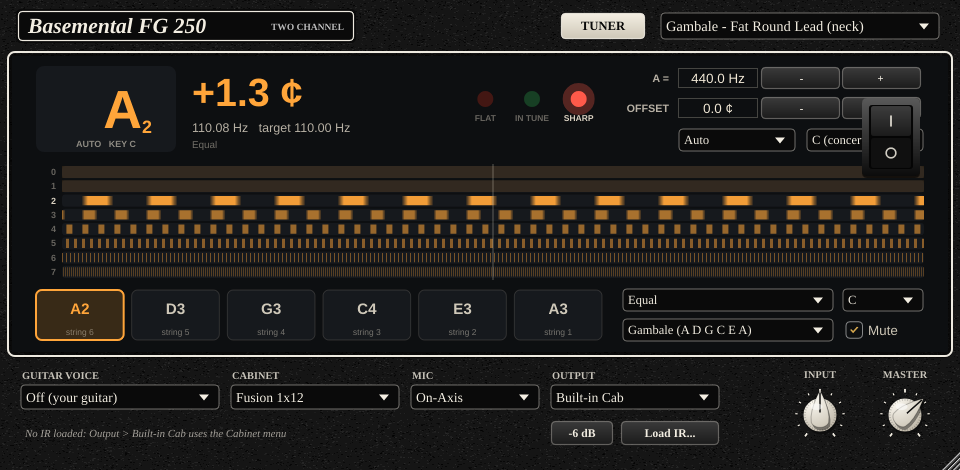
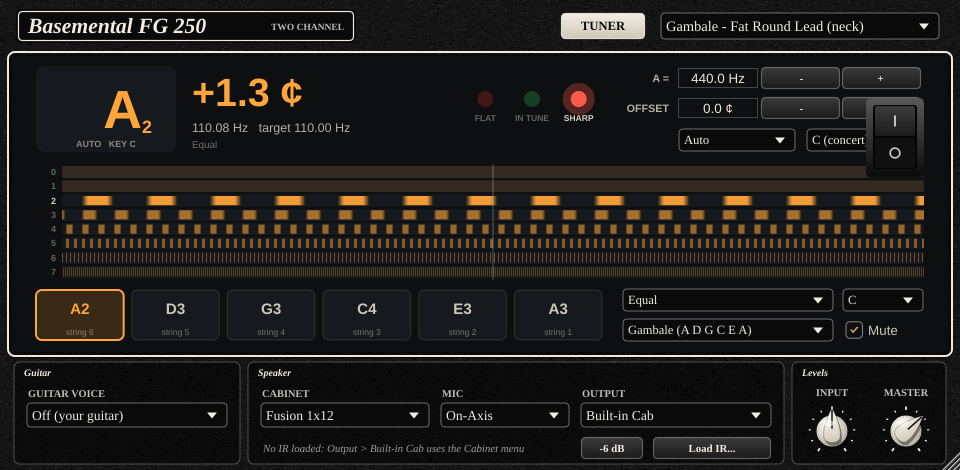
Larger knobs, black crinkle finish, reverb stomp footswitch, grouped footer panels
Claude-Session: https://claude.ai/code/session_01SErY97rsBrNjufxFoFZJH3

diff --git a/Source/PluginEditor.cpp b/Source/PluginEditor.cpp
@@ -203,7 +203,6 @@ Fusion250Editor::Fusion250Editor (Fusion250Processor& p) : AudioProcessorEditor 
     };
     addAndMakeVisible (channelBtn);
 
-    reverbBtn.setClickingTogglesState (true);
     reverbBtn.setTooltip ("Reverb on/off (footswitch)");
     addAndMakeVisible (reverbBtn);
     revAtt = std::make_unique<juce::AudioProcessorValueTreeState::ButtonAttachment> (proc.apvts, "reverb_on", reverbBtn);
@@ -285,7 +284,7 @@ void Fusion250Editor::timerCallback()
 void Fusion250Editor::rebuildTextures()
 {
     juce::Random rng (250);
-    // black brushed faceplate
+    // black crinkle faceplate
     brushed = juce::Image (juce::Image::RGB, juce::jmax (1, plate.getWidth()), juce::jmax (1, plate.getHeight()), true);
     {
         juce::Graphics g (brushed);
@@ -293,12 +292,16 @@ void Fusion250Editor::rebuildTextures()
         grad.addColour (0.45, plateHi.interpolatedWith (plateLo, 0.35f));
         g.setGradientFill (grad);
         g.fillAll();
-        for (int y = 0; y < plate.getHeight(); ++y)
+        // black crinkle (wrinkle) finish: dense tiny highlights and shadows
+        const int W = plate.getWidth(), H = plate.getHeight();
+        for (int i = 0; i < W * H / 3; ++i)
         {
-            const float a = rng.nextFloat() * 0.05f;
-            g.setColour ((rng.nextBool() ? juce::Colours::white : juce::Colours::black).withAlpha (a));
-            const float x0 = rng.nextFloat() * plate.getWidth() * 0.3f;
-            g.drawHorizontalLine (y, x0, x0 + plate.getWidth() * (0.5f + rng.nextFloat() * 0.6f));
+            const float x = rng.nextFloat() * W, y = rng.nextFloat() * H;
+            const float d = 1.0f + rng.nextFloat() * 2.2f;
+            g.setColour (juce::Colours::white.withAlpha (0.025f + rng.nextFloat() * 0.03f));
+            g.fillEllipse (x, y, d, d * 0.8f);
+            g.setColour (juce::Colours::black.withAlpha (0.10f + rng.nextFloat() * 0.10f));
+            g.fillEllipse (x + 0.8f, y + 0.9f, d, d * 0.8f);
         }
     }
     // tolex grain
@@ -359,12 +362,12 @@ void Fusion250Editor::paint (juce::Graphics& g)
     // engraved row divider
     const float divY = (float) cleanBand.getY();
     g.setColour (juce::Colours::black.withAlpha (0.8f));
-    g.drawHorizontalLine ((int) divY + 1, pf.getX() + 130 * s, pf.getX() + 818 * s);
+    g.drawHorizontalLine ((int) divY + 1, pf.getX() + 130 * s, pf.getX() + 826 * s);
     g.setColour (ink.withAlpha (0.55f));
-    g.drawHorizontalLine ((int) divY, pf.getX() + 130 * s, pf.getX() + 818 * s);
+    g.drawHorizontalLine ((int) divY, pf.getX() + 130 * s, pf.getX() + 826 * s);
     // power section: vertical divider, captions, blue ON lamp
     g.setColour (ink.withAlpha (0.55f));
-    g.drawVerticalLine ((int) (pf.getX() + 830 * s), pf.getY() + 16 * s, pf.getBottom() - 16 * s);
+    g.drawVerticalLine ((int) (pf.getX() + 836 * s), pf.getY() + 16 * s, pf.getBottom() - 16 * s);
     const auto pb = powerBtn.getBounds().toFloat();
     engrave (g, "POWER", { pb.getX() - 20 * s, pb.getY() - 22 * s, pb.getWidth() + 40 * s, 18 * s }, 14.5f * s);
     const juce::Point<float> lamp (pb.getCentreX(), (float) cleanBand.getCentreY() + 8 * s);
@@ -387,6 +390,27 @@ void Fusion250Editor::paint (juce::Graphics& g)
         if (k.small) continue;
         const auto b = k.slider->getBounds().toFloat();
         engrave (g, k.label.toUpperCase(), { b.getX() - 20 * s, b.getY() - 22 * s, b.getWidth() + 40 * s, 18 * s }, 14.5f * s);
+    }
+
+    // footer groups
+    auto group = [&] (juce::Rectangle<int> r, const char* title)
+    {
+        const auto rf = r.toFloat();
+        g.setColour (juce::Colours::black.withAlpha (0.45f));
+        g.fillRoundedRectangle (rf, 6 * s);
+        g.setColour (piping.withAlpha (0.3f));
+        g.drawRoundedRectangle (rf, 6 * s, 1.0f);
+        g.setColour (cream);
+        g.setFont (engraveFont (11 * s, true));
+        g.drawText (title, rf.withHeight (16 * s).translated (10 * s, 3 * s), juce::Justification::centredLeft);
+    };
+    group (guitarGroup, "Guitar");
+    group (speakerGroup, "Speaker");
+    group (levelGroup, "Levels");
+    // reverb footswitch caption
+    {
+        const auto rb = reverbBtn.getBounds().toFloat();
+        engrave (g, "REVERB", { rb.getX() - 20 * s, rb.getY() - 22 * s, rb.getWidth() + 40 * s, 18 * s }, 14.5f * s);
     }
 
     // footer captions (on tolex, so cream)
@@ -420,35 +444,40 @@ void Fusion250Editor::resized()
     tuner.setBounds (plate);
     channelBtn.setBounds (S (30), cleanBand.getY() - S (17), S (90), S (34));
 
-    const int x0 = S (140), colW = S (114), knobSize = S (100);
-    powerBtn.setBounds (plate.getX() + S (848), leadBand.getY() + S (40), S (62), S (82));
+    const int x0 = S (136), colW = S (115), knobSize = S (114);
+    powerBtn.setBounds (plate.getX() + S (852), leadBand.getY() + S (40), S (62), S (82));
     auto placeKnob = [&] (Knob& k, juce::Rectangle<int> band, int col)
     {
         const int cx = x0 + col * colW + colW / 2;
-        k.slider->setBounds (cx - knobSize / 2, band.getY() + S (34), knobSize, knobSize);
+        k.slider->setBounds (cx - knobSize / 2, band.getY() + S (30), knobSize, knobSize);
     };
     for (int i = 0; i < 6; ++i) placeKnob (knobs[(size_t) i], leadBand, i);
     for (int i = 0; i < 5; ++i) placeKnob (knobs[(size_t) (6 + i)], cleanBand, i);
 
     const int revCx = x0 + 5 * colW + colW / 2;
-    reverbBtn.setBounds (revCx - S (46), cleanBand.getCentreY() - S (16), S (92), S (32));
+    reverbBtn.setBounds (revCx - S (34), cleanBand.getY() + S (30), S (68), S (100));
 
-    const int fy = footer.getY() + S (26), fy2 = footer.getY() + S (62);
-    guitarBox.setBounds (S (20), fy, S (200), S (26));
-    cabBox.setBounds (S (230), fy, S (170), S (26));
-    micBox.setBounds (S (410), fy, S (130), S (26));
-    outputBox.setBounds (S (550), fy, S (170), S (26));
-    irLabel.setBounds (S (20), fy2, S (520), S (26));
-    padBtn.setBounds (S (550), fy2, S (64), S (26));
-    irBtn.setBounds (S (620), fy2, S (100), S (26));
+    // footer: three grouped panels
+    const int gy = footer.getY() + S (4), gh = footer.getHeight() - S (10);
+    guitarGroup  = { S (14), gy, S (226), gh };
+    speakerGroup = { S (248), gy, S (536), gh };
+    levelGroup   = { S (792), gy, S (154), gh };
+    const int fy = gy + S (40), fy2 = gy + S (74);
+    guitarBox.setBounds (guitarGroup.getX() + S (12), fy, S (202), S (26));
+    cabBox.setBounds (speakerGroup.getX() + S (12), fy, S (170), S (26));
+    micBox.setBounds (speakerGroup.getX() + S (192), fy, S (130), S (26));
+    outputBox.setBounds (speakerGroup.getX() + S (332), fy, S (192), S (26));
+    padBtn.setBounds (speakerGroup.getX() + S (332), fy2, S (64), S (24));
+    irBtn.setBounds (speakerGroup.getX() + S (404), fy2, S (120), S (24));
+    irLabel.setBounds (speakerGroup.getX() + S (10), fy2, S (316), S (24));
 
     auto smallKnob = [&] (Knob& k, int cx)
     {
-        const int sz = S (66);
-        k.slider->setBounds (cx - sz / 2, footer.getY() + S (24), sz, sz);
+        const int sz = S (62);
+        k.slider->setBounds (cx - sz / 2, gy + S (38), sz, sz);
     };
-    smallKnob (knobs[11], S (820));
-    smallKnob (knobs[12], S (905));
+    smallKnob (knobs[11], levelGroup.getX() + S (40));
+    smallKnob (knobs[12], levelGroup.getX() + S (114));
 }
 
 // =================================================================== rocker
@@ -480,4 +509,45 @@ void RockerSwitch::paintButton (juce::Graphics& g, bool over, bool)
     const float m = face.getWidth() * 0.12f;
     g.fillRoundedRectangle (juce::Rectangle<float> (m * 0.35f, face.getHeight() * 0.18f).withCentre (top.getCentre()), 1.0f);
     g.drawEllipse (juce::Rectangle<float> (face.getWidth() * 0.22f, face.getWidth() * 0.22f).withCentre (bottom.getCentre()), 1.6f);
+}
+
+// =============================================================== footswitch
+void FootswitchButton::paintButton (juce::Graphics& g, bool over, bool down)
+{
+    const auto b = getLocalBounds().toFloat();
+    const bool on = getToggleState();
+    // status LED above the switch
+    const juce::Point<float> led (b.getCentreX(), b.getY() + b.getHeight() * 0.12f);
+    const float lr = b.getWidth() * 0.09f;
+    if (on) { g.setColour (juce::Colour (0xffff3a2a).withAlpha (0.35f)); g.fillEllipse (led.x - lr * 2.4f, led.y - lr * 2.4f, lr * 4.8f, lr * 4.8f); }
+    g.setColour (on ? juce::Colour (0xffff4a3a) : juce::Colour (0xff3a1210));
+    g.fillEllipse (led.x - lr, led.y - lr, lr * 2, lr * 2);
+    g.setColour (juce::Colours::white.withAlpha (on ? 0.6f : 0.2f));
+    g.fillEllipse (led.x - lr * 0.5f, led.y - lr * 0.6f, lr * 0.6f, lr * 0.45f);
+
+    // hex nut + chrome stomp cap
+    const juce::Point<float> c (b.getCentreX(), b.getY() + b.getHeight() * 0.62f);
+    const float R = juce::jmin (b.getWidth(), b.getHeight()) * 0.42f;
+    juce::Path hex;
+    for (int i = 0; i < 6; ++i)
+    {
+        const float a = juce::MathConstants<float>::pi / 3.0f * (float) i;
+        const auto p = c + juce::Point<float> (R * std::cos (a), R * std::sin (a));
+        if (i == 0) hex.startNewSubPath (p); else hex.lineTo (p);
+    }
+    hex.closeSubPath();
+    g.setColour (juce::Colours::black.withAlpha (0.5f));
+    g.fillPath (hex, juce::AffineTransform::translation (0, 3.0f));
+    juce::ColourGradient nut (juce::Colour (0xffdedede), c.x - R, c.y - R, juce::Colour (0xff4a4a4a), c.x + R, c.y + R, false);
+    g.setGradientFill (nut);
+    g.fillPath (hex);
+    const float cr = R * (down ? 0.60f : 0.64f);
+    juce::ColourGradient cap (juce::Colour (0xffffffff), c.x - cr * 0.5f, c.y - cr * 0.7f, juce::Colour (0xff6a6a6a), c.x + cr * 0.6f, c.y + cr, true);
+    g.setGradientFill (cap);
+    g.fillEllipse (c.x - cr, c.y - cr, cr * 2, cr * 2);
+    g.setColour (juce::Colours::black.withAlpha (0.45f));
+    g.drawEllipse (c.x - cr, c.y - cr, cr * 2, cr * 2, 1.0f);
+    g.setColour (juce::Colours::black.withAlpha (0.18f));
+    g.drawEllipse (c.x - cr * 0.62f, c.y - cr * 0.62f, cr * 1.24f, cr * 1.24f, 1.2f);
+    if (over) { g.setColour (juce::Colours::white.withAlpha (0.08f)); g.fillEllipse (c.x - cr, c.y - cr, cr * 2, cr * 2); }
 }

diff --git a/Source/PluginEditor.h b/Source/PluginEditor.h
@@ -25,6 +25,14 @@ public:
     void paintButton (juce::Graphics&, bool over, bool down) override;
 };
 
+// Chrome stomp footswitch with a status LED (click to toggle)
+class FootswitchButton : public juce::Button
+{
+public:
+    FootswitchButton() : juce::Button ("Reverb") { setClickingTogglesState (true); }
+    void paintButton (juce::Graphics&, bool over, bool down) override;
+};
+
 class Fusion250Editor : public juce::AudioProcessorEditor, private juce::Timer
 {
 public:
@@ -50,7 +58,8 @@ private:
     };
     std::vector<Knob> knobs;     // 0-4 lead, 5 reverb, 6-10 clean, 11 input, 12 master
 
-    juce::TextButton channelBtn { "CH" }, reverbBtn { "REVERB" }, padBtn { "-6 dB" }, irBtn { "Load IR..." }, tunerBtn { "TUNER" };
+    juce::TextButton channelBtn { "CH" }, padBtn { "-6 dB" }, irBtn { "Load IR..." }, tunerBtn { "TUNER" };
+    FootswitchButton reverbBtn;
     TunerPanel tuner;
     RockerSwitch powerBtn;
     std::unique_ptr<juce::AudioProcessorValueTreeState::ButtonAttachment> powerAtt;
@@ -60,7 +69,7 @@ private:
     std::unique_ptr<juce::AudioProcessorValueTreeState::ComboBoxAttachment> guitarAtt, outputAtt, cabAtt, micAtt;
     std::unique_ptr<juce::FileChooser> chooser;
 
-    juce::Rectangle<int> header, plate, leadBand, cleanBand, footer;
+    juce::Rectangle<int> header, plate, leadBand, cleanBand, footer, guitarGroup, speakerGroup, levelGroup;
     juce::Image brushed, tolex;
     bool leadOn = false;
 
